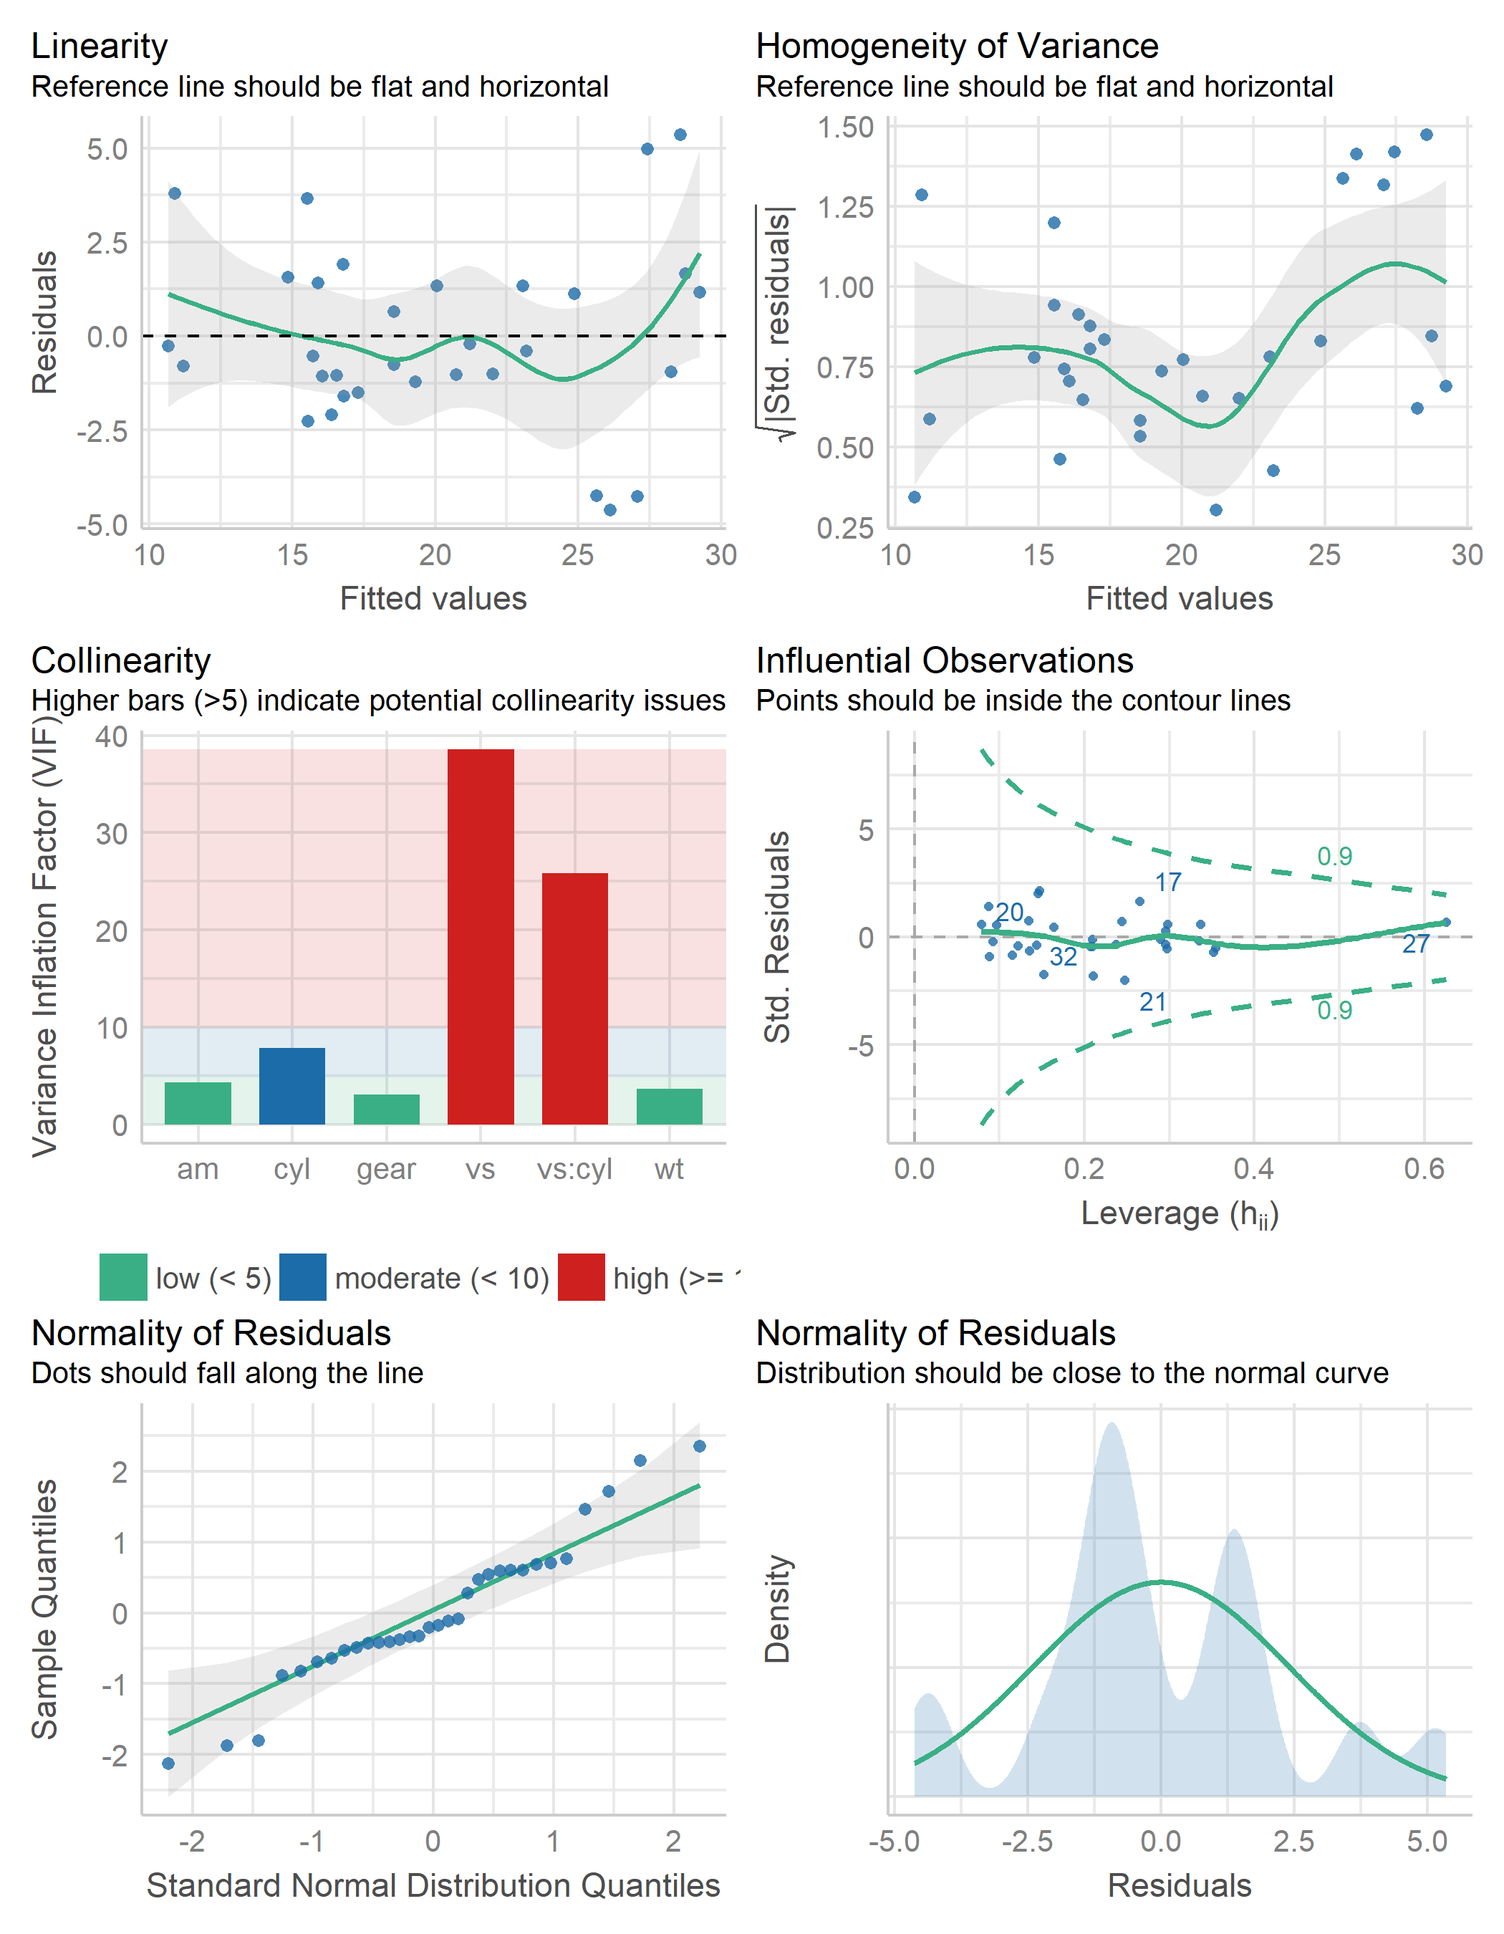
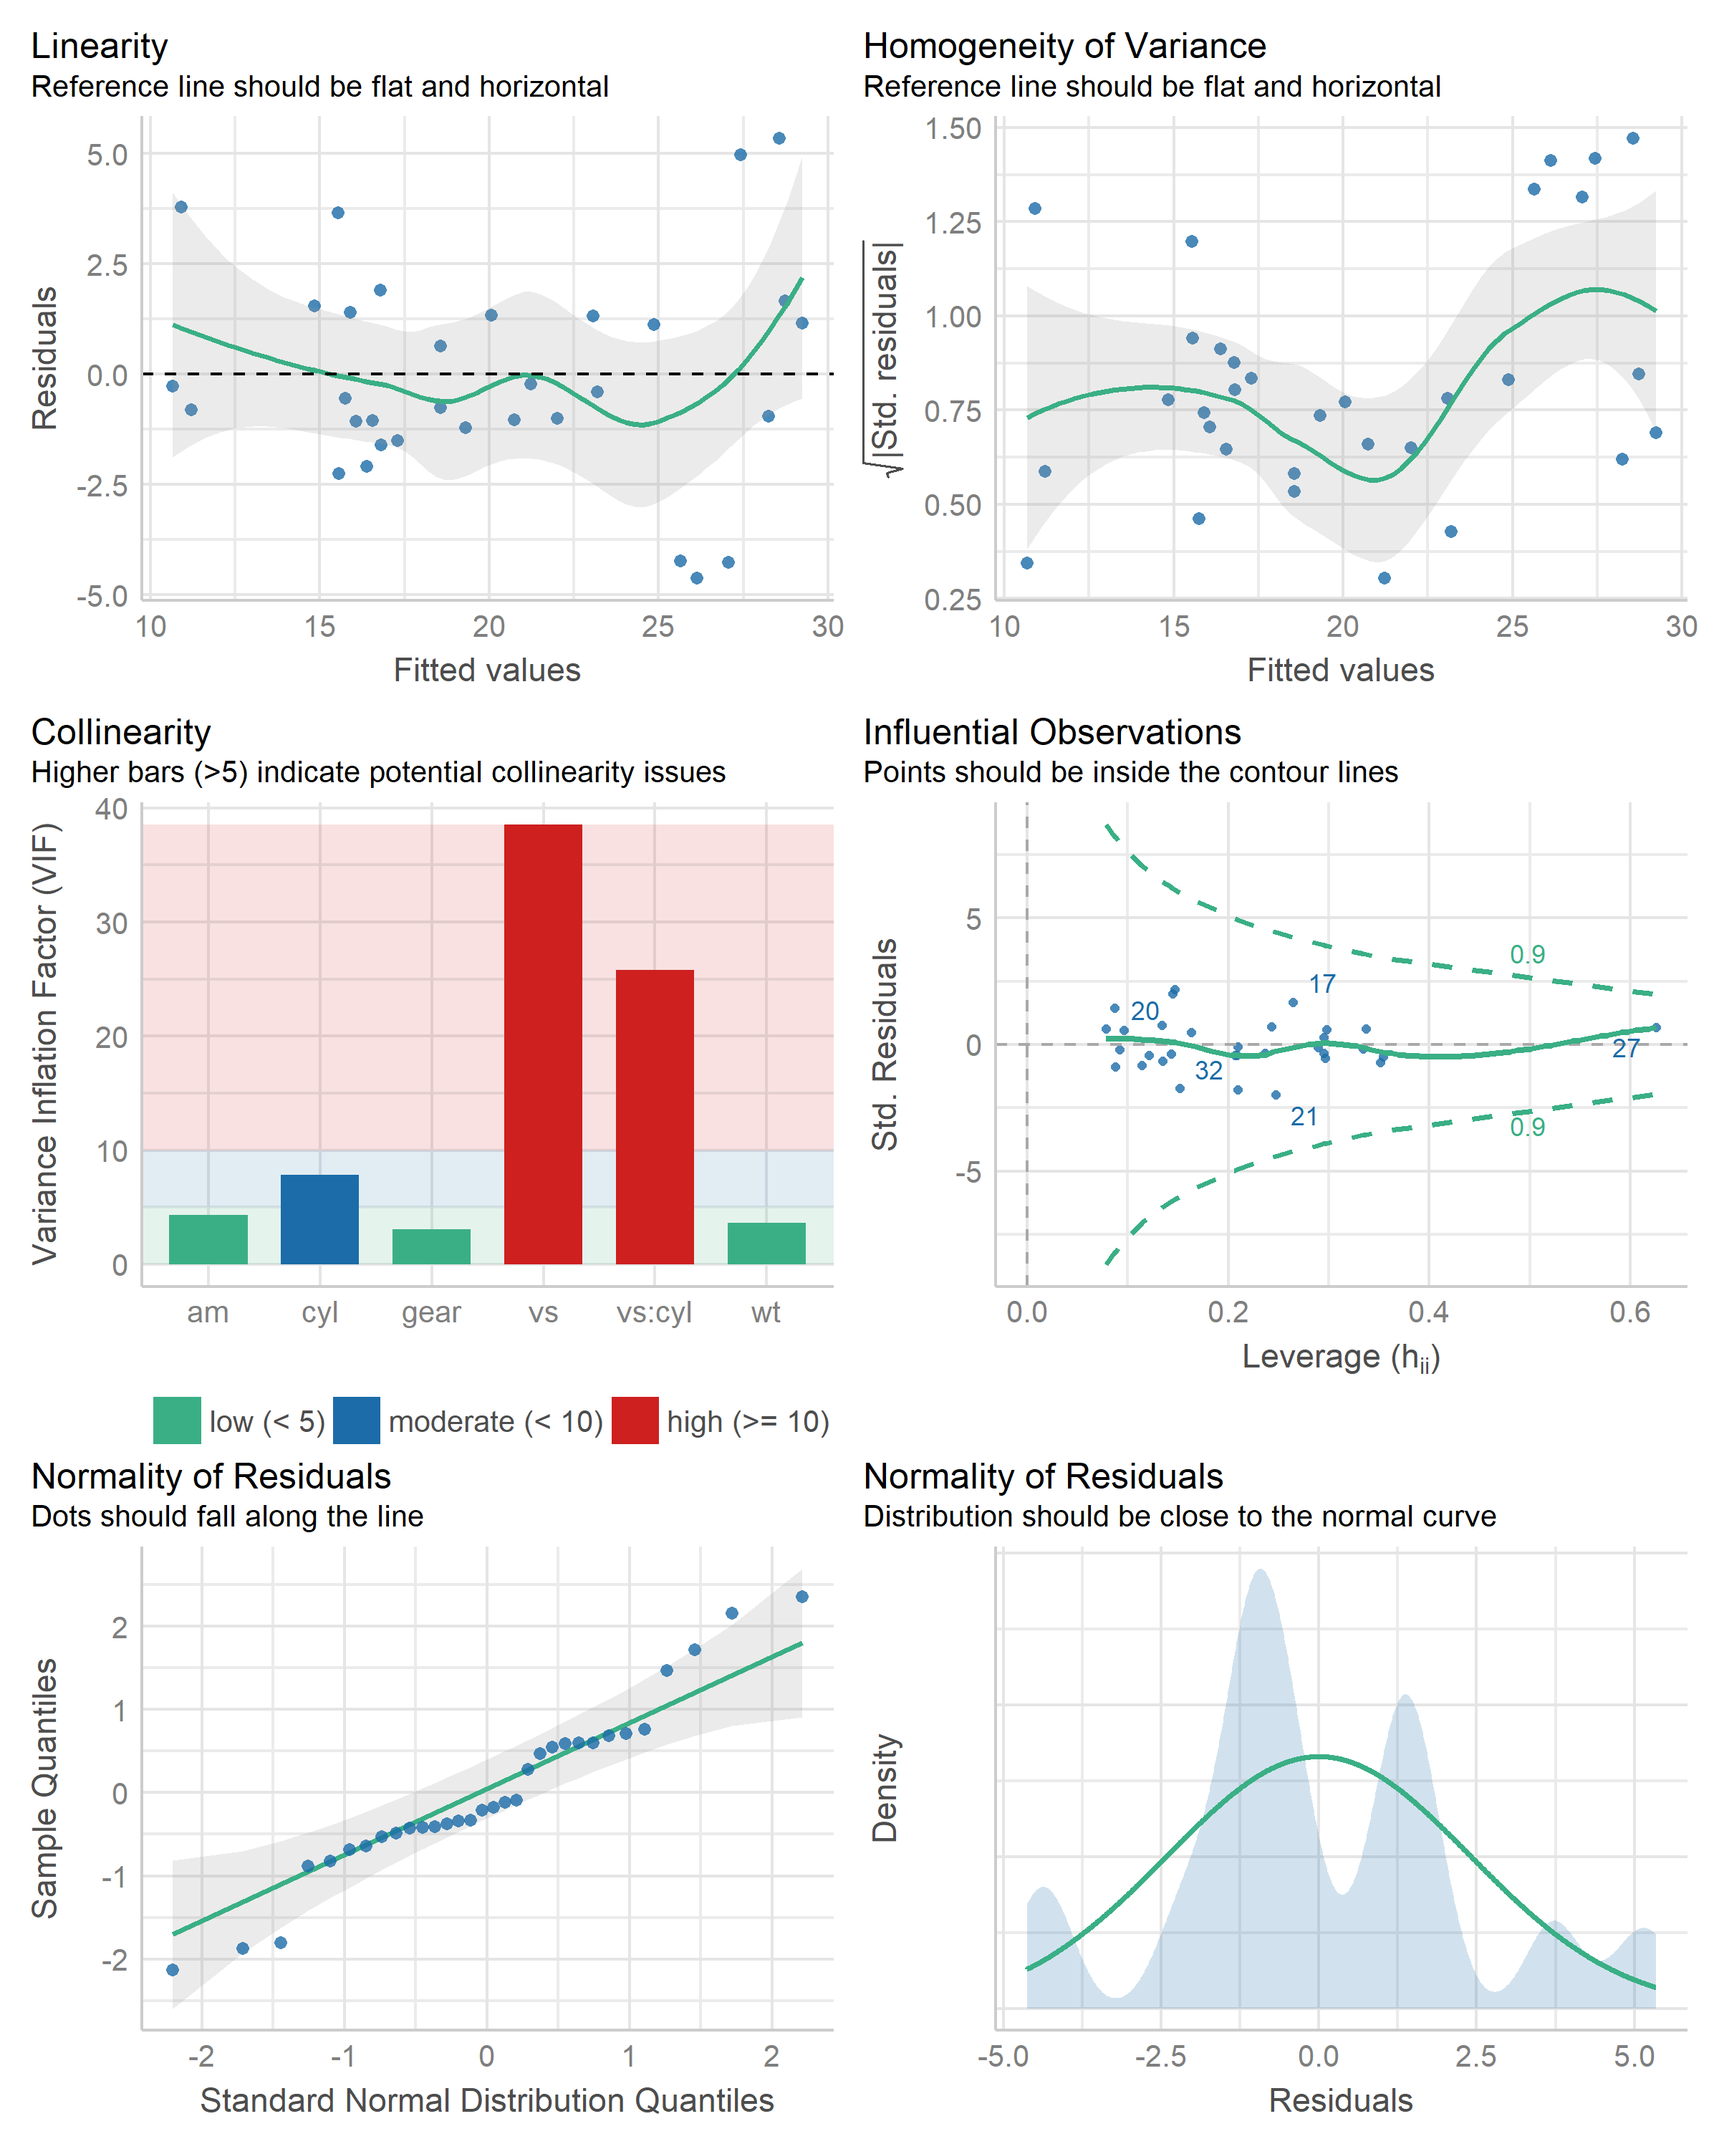
make sure the entire check_model output is visible

diff --git a/README.md b/README.md
@@ -136,7 +136,11 @@ Schielzeth 2017).
 set.seed(123)
 library(rstanarm)
 
-model <- stan_glmer(Petal.Length ~ Petal.Width + (1 | Species), data = iris, cores = 4)
+model <- stan_glmer(
+  Petal.Length ~ Petal.Width + (1 | Species),
+  data = iris,
+  cores = 4
+)
 
 r2(model)
 #> # Bayesian R2 with Compatibility Interval
@@ -255,12 +259,16 @@ set.seed(123)
 sleepstudy$mygrp <- sample(1:5, size = 180, replace = TRUE)
 sleepstudy$mysubgrp <- NA
 for (i in 1:5) {
-    filter_group <- sleepstudy$mygrp == i
-    sleepstudy$mysubgrp[filter_group] <- sample(1:30, size = sum(filter_group), replace = TRUE)
+  filter_group <- sleepstudy$mygrp == i
+  sleepstudy$mysubgrp[filter_group] <-
+    sample(1:30, size = sum(filter_group), replace = TRUE)
 }
 
 # fit strange model
-model <- lmer(Reaction ~ Days + (1 | mygrp/mysubgrp) + (1 | Subject), data = sleepstudy)
+model <- lmer(
+  Reaction ~ Days + (1 | mygrp / mysubgrp) + (1 | Subject),
+  data = sleepstudy
+)
 
 check_singularity(model)
 #> [1] TRUE
@@ -299,7 +307,7 @@ model <- lm(mpg ~ wt + am + gear + vs * cyl, data = mtcars)
 check_model(model)
 ```
 
-<img src="man/figures/unnamed-chunk-14-1.png" width="100%" />
+<img src="man/figures/unnamed-chunk-14-1.png" width="60%" />
 
 ### Model performance summaries
 
@@ -409,7 +417,8 @@ data(iris)
 lm1 <- lm(Sepal.Length ~ Species, data = iris)
 lm2 <- lm(Sepal.Length ~ Species + Petal.Length, data = iris)
 lm3 <- lm(Sepal.Length ~ Species * Sepal.Width, data = iris)
-lm4 <- lm(Sepal.Length ~ Species * Sepal.Width + Petal.Length + Petal.Width, data = iris)
+lm4 <- lm(Sepal.Length ~ Species * Sepal.Width +
+  Petal.Length + Petal.Width, data = iris)
 
 test_performance(lm1, lm2, lm3, lm4)
 #> Name | Model |     BF | Omega2 | p (Omega2) |    LR | p (LR)
